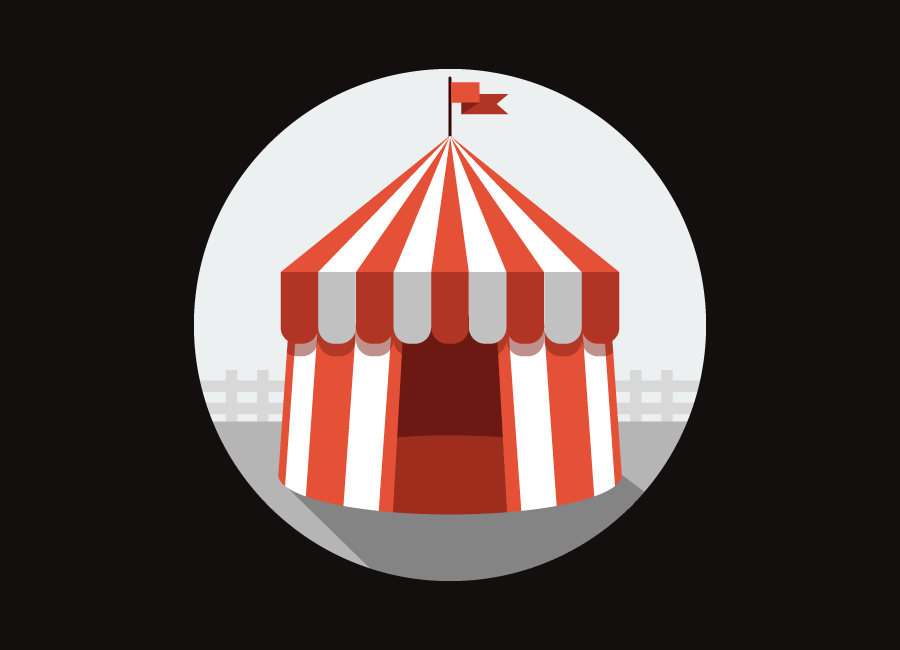
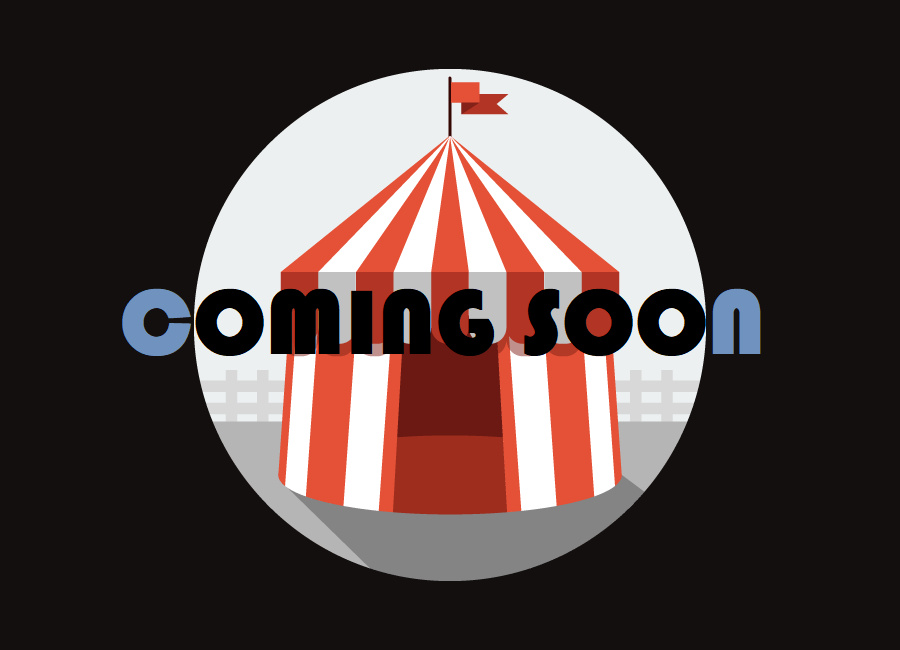
updated png files and added comming soon to all unused portfolio slots

Changed region(s): [[0.1244, 0.4308, 0.8711, 0.5538]]

diff --git a/index.html b/index.html
@@ -142,7 +142,7 @@
                 <i class="fas fa-plus fa-3x"></i>
               </div>
             </div>
-            <img class="img-fluid" src="img/portfolio/game.png" alt="">
+            <img class="img-fluid" src="img/portfolio/circus.png" alt="">
           </div>
         </div>
 
@@ -154,7 +154,7 @@
                 <i class="fas fa-plus fa-3x"></i>
               </div>
             </div>
-            <img class="img-fluid" src="img/portfolio/safe.png" alt="">
+            <img class="img-fluid" src="img/portfolio/circus.png" alt="">
           </div>
         </div>
 
@@ -166,7 +166,7 @@
                 <i class="fas fa-plus fa-3x"></i>
               </div>
             </div>
-            <img class="img-fluid" src="img/portfolio/submarine.png" alt="">
+            <img class="img-fluid" src="img/portfolio/circus.png" alt="">
           </div>
         </div>
 
@@ -459,7 +459,7 @@
             <div class="row justify-content-center">
               <div class="col-lg-8">
                 <!-- Portfolio Modal - Title -->
-                <h2 class="portfolio-modal-title text-secondary text-uppercase mb-0">Circus Tent</h2>
+                <h2 class="portfolio-modal-title text-secondary text-uppercase mb-0">Coming Soon</h2>
                 <!-- Icon Divider -->
                 <div class="divider-custom">
                   <div class="divider-custom-line"></div>
@@ -469,7 +469,7 @@
                   <div class="divider-custom-line"></div>
                 </div>
                 <!-- Portfolio Modal - Image -->
-                <img class="img-fluid rounded mb-5" src="img/portfolio/circus.png" alt="">
+                <img class="img-fluid rounded mb-5" src="img/portfolio/circus.png" alt="Coming Soon">
                 <!-- Portfolio Modal - Text -->
                 <p class="mb-5">Lorem ipsum dolor sit amet, consectetur adipisicing elit. Mollitia neque assumenda ipsam
                   nihil, molestias magnam, recusandae quos quis inventore quisquam velit asperiores, vitae?
@@ -501,7 +501,7 @@
             <div class="row justify-content-center">
               <div class="col-lg-8">
                 <!-- Portfolio Modal - Title -->
-                <h2 class="portfolio-modal-title text-secondary text-uppercase mb-0">Controller</h2>
+                <h2 class="portfolio-modal-title text-secondary text-uppercase mb-0">Coming Soon</h2>
                 <!-- Icon Divider -->
                 <div class="divider-custom">
                   <div class="divider-custom-line"></div>
@@ -511,7 +511,7 @@
                   <div class="divider-custom-line"></div>
                 </div>
                 <!-- Portfolio Modal - Image -->
-                <img class="img-fluid rounded mb-5" src="img/portfolio/game.png" alt="">
+                <img class="img-fluid rounded mb-5" src="img/portfolio/circus.png" alt="Coming Soon">
                 <!-- Portfolio Modal - Text -->
                 <p class="mb-5">Lorem ipsum dolor sit amet, consectetur adipisicing elit. Mollitia neque assumenda ipsam
                   nihil, molestias magnam, recusandae quos quis inventore quisquam velit asperiores, vitae?
@@ -543,7 +543,7 @@
             <div class="row justify-content-center">
               <div class="col-lg-8">
                 <!-- Portfolio Modal - Title -->
-                <h2 class="portfolio-modal-title text-secondary text-uppercase mb-0">Locked Safe</h2>
+                <h2 class="portfolio-modal-title text-secondary text-uppercase mb-0">Coming Soon</h2>
                 <!-- Icon Divider -->
                 <div class="divider-custom">
                   <div class="divider-custom-line"></div>
@@ -553,7 +553,7 @@
                   <div class="divider-custom-line"></div>
                 </div>
                 <!-- Portfolio Modal - Image -->
-                <img class="img-fluid rounded mb-5" src="img/portfolio/safe.png" alt="">
+                <img class="img-fluid rounded mb-5" src="img/portfolio/circus.png" alt="Coming Soon">
                 <!-- Portfolio Modal - Text -->
                 <p class="mb-5">Lorem ipsum dolor sit amet, consectetur adipisicing elit. Mollitia neque assumenda ipsam
                   nihil, molestias magnam, recusandae quos quis inventore quisquam velit asperiores, vitae?
@@ -585,7 +585,7 @@
             <div class="row justify-content-center">
               <div class="col-lg-8">
                 <!-- Portfolio Modal - Title -->
-                <h2 class="portfolio-modal-title text-secondary text-uppercase mb-0">Submarine</h2>
+                <h2 class="portfolio-modal-title text-secondary text-uppercase mb-0">Coming Soon</h2>
                 <!-- Icon Divider -->
                 <div class="divider-custom">
                   <div class="divider-custom-line"></div>
@@ -595,7 +595,7 @@
                   <div class="divider-custom-line"></div>
                 </div>
                 <!-- Portfolio Modal - Image -->
-                <img class="img-fluid rounded mb-5" src="img/portfolio/submarine.png" alt="">
+                <img class="img-fluid rounded mb-5" src="img/portfolio/circus.png" alt="Coming Soon">
                 <!-- Portfolio Modal - Text -->
                 <p class="mb-5">Lorem ipsum dolor sit amet, consectetur adipisicing elit. Mollitia neque assumenda ipsam
                   nihil, molestias magnam, recusandae quos quis inventore quisquam velit asperiores, vitae?
